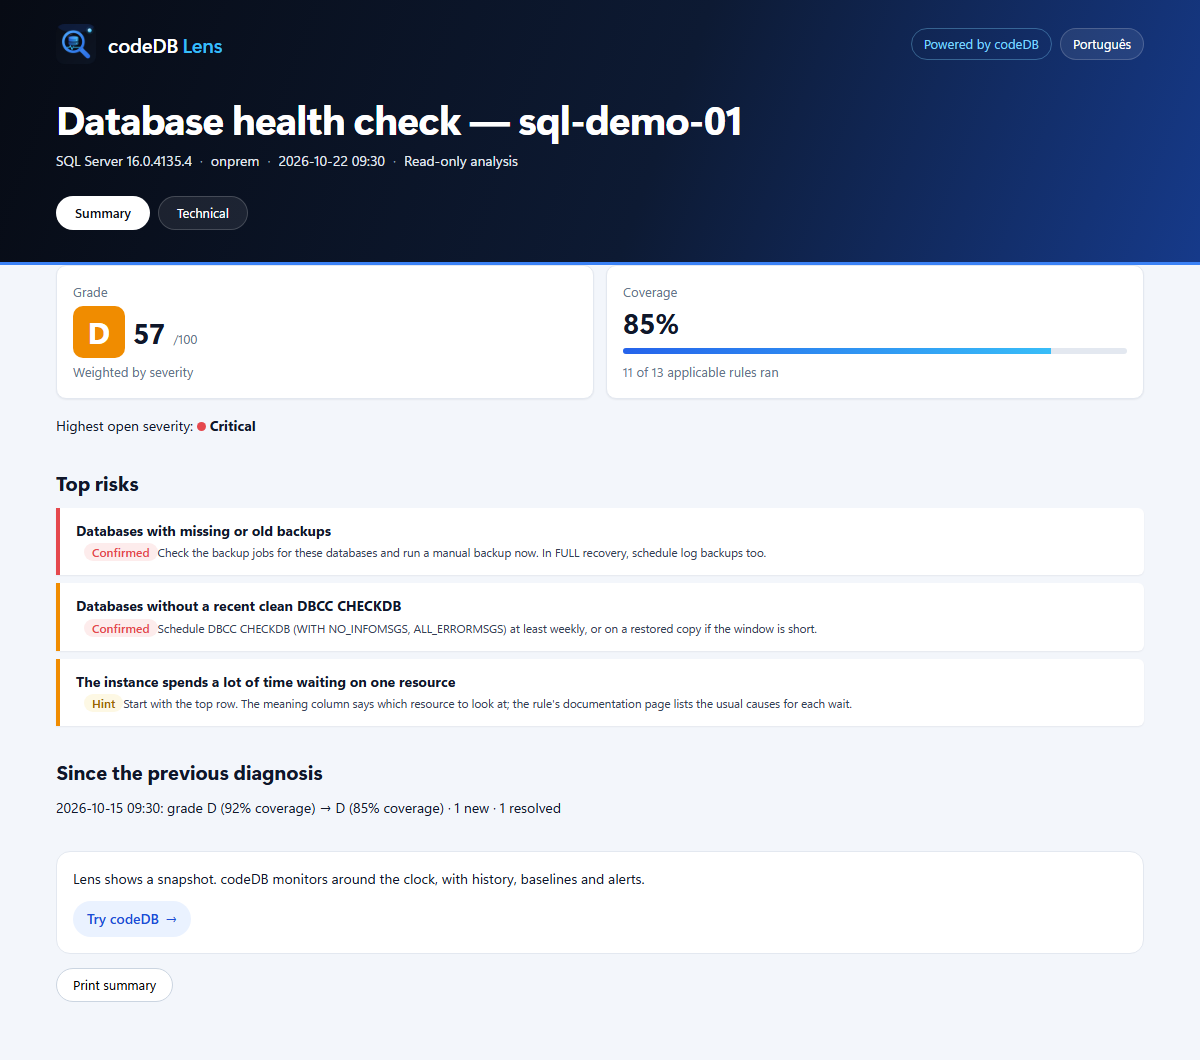
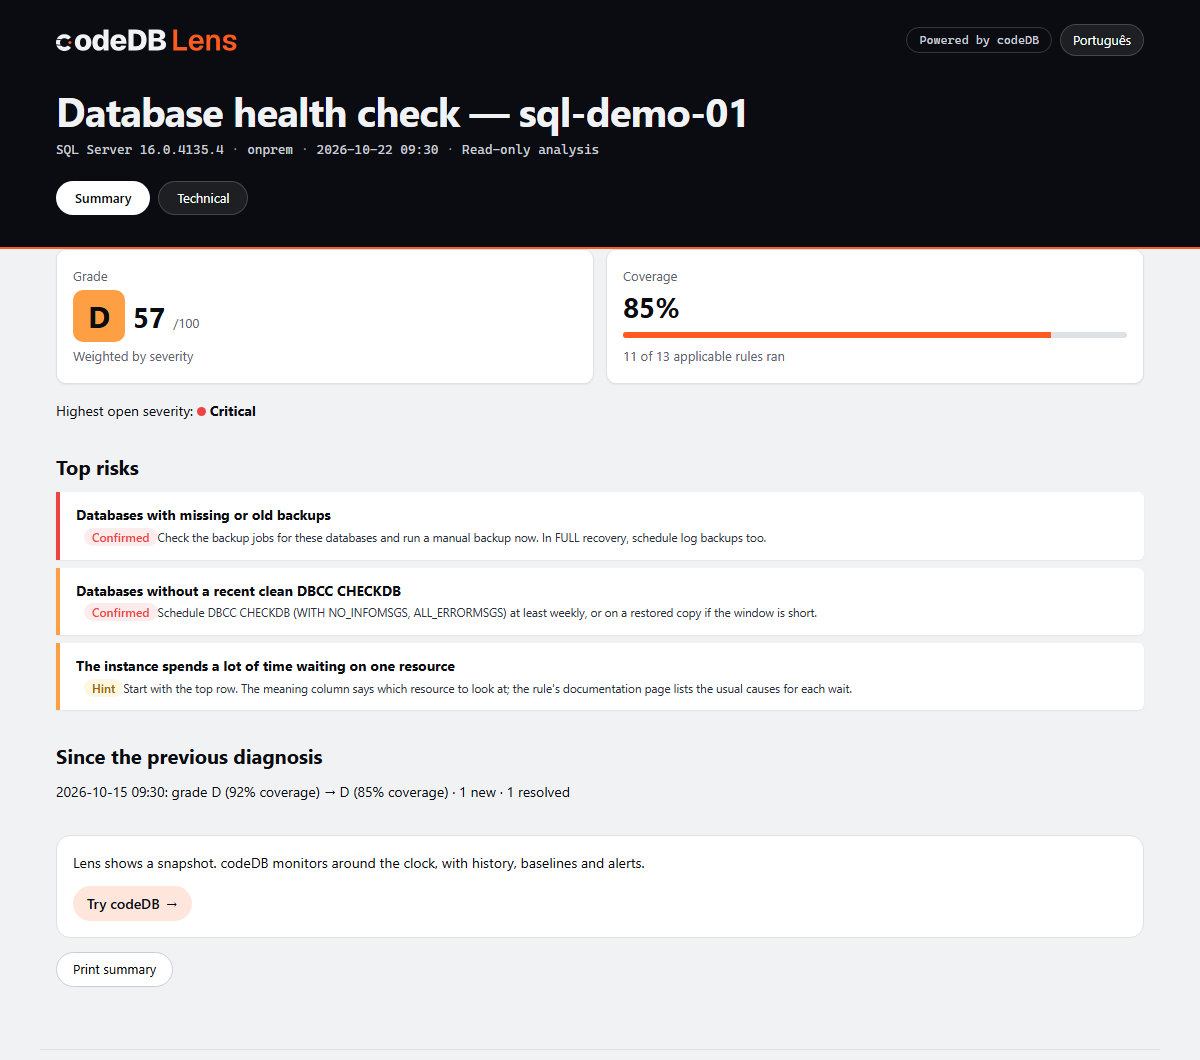
README demo GIF and report screenshot in the 2026 brand
make_demo.py rebuilds demo.gif (check in a terminal, the report, the
record timeline, end card with the horizontal logo) and
report-summary.png from a real run, so the next visual change is one
command. The GIF comes from a check and a 5-minute recording against
the test SQL Server container, host renamed to sql-prod-01.

diff --git a/assets/screenshots/make_demo.py b/assets/screenshots/make_demo.py
@@ -1,0 +1,256 @@
+#!/usr/bin/env python3
+"""Build the README demo GIF (check in a terminal, the report, the record timeline) and report-summary.png.
+
+Inputs come from a real run against a test server:
+  check.txt     stdout of `codedb-lens check ... --lang en`
+  check.html    the report that run saved
+  record.html   `codedb-lens report <recording folder> --lang en`
+Host names are swapped with --rename old=new (repeatable), so the GIF shows sql-prod-01, not the container.
+
+  python assets/screenshots/make_demo.py check.txt check.html record.html --rename 20fd962af3a0=sql-prod-01
+
+Needs Pillow and a Chromium (CHROME_PATH, Edge/Chrome or Playwright's chrome-headless-shell) for the page shots.
+Colours and fonts follow the codeDB brand kit (internal/report/tokens.css, Geist from the app's frontend/fonts).
+"""
+
+import argparse
+import glob
+import os
+import re
+import subprocess
+import sys
+import tempfile
+from pathlib import Path
+
+from PIL import Image, ImageDraw, ImageFont
+
+HERE = Path(__file__).resolve().parent
+ROOT = HERE.parent.parent
+FONTS = ROOT / "cmd" / "codedb-lens" / "frontend" / "fonts"
+sys.path.insert(0, str(ROOT / "assets" / "icon"))
+import generate  # noqa: E402  (browser lookup)
+
+W, H = 960, 600
+CAP_H, BAR_H = 56, 30
+SRC_W = 1280  # pages render at desktop width, then scale to W
+BREU, CARVAO, GRAFITE, ARDOSIA = (10, 12, 17), (18, 21, 28), (28, 33, 43), (42, 48, 60)
+NEVOA, NUVEM, PAPEL, SINAL = (139, 147, 161), (201, 206, 214), (241, 242, 244), (255, 90, 31)
+SEV = {"critical": (239, 68, 68), "high": (255, 159, 67), "medium": (242, 201, 76), "low": NEVOA}
+GRADE = {"A": (34, 194, 122), "B": (139, 209, 74), "C": (242, 201, 76), "D": (255, 159, 67), "F": (239, 68, 68)}
+COMMAND = "codedb-lens check --engine mssql --server sql-prod-01 --user codedb_lens"
+REPORT_DIR = r"C:\Users\dba\Documents\codeDB Lens\reports\sql-prod-01"
+
+CAPTIONS = {
+    "check": (None, "One command, a read-only login, nothing installed on the server"),
+    "summary": (None, "A–F grade with a coverage seal: no data never shows up as OK"),
+    "tech": (None, "Every finding: evidence, what it means, next action, how to verify"),
+    "record": ("NEW", "record: an hour or a day of samples, turned into episodes and charts"),
+}
+
+
+def font(name: str, size: int) -> ImageFont.FreeTypeFont:
+    return ImageFont.truetype(str(FONTS / name), size)
+
+
+MONO, SANS, SANS_B = font("GeistMono-400.ttf", 15), font("Geist-400.ttf", 19), font("Geist-600.ttf", 13)
+
+
+def chromium() -> str:
+    # Playwright's headless shell first: a desktop Edge/Chrome already running may swallow --screenshot.
+    shells = glob.glob(os.path.expanduser("~/AppData/Local/ms-playwright/chromium_headless_shell-*/*/chrome-headless-shell*"))
+    shells += glob.glob(os.path.expanduser("~/.cache/ms-playwright/chromium_headless_shell-*/*/chrome-headless-shell"))
+    if os.environ.get("CHROME_PATH") or not shells:
+        return generate.browser()
+    return sorted(shells)[-1]
+
+
+def shot(html: str, tmp: Path, name: str, height: int = 5000, src_w: int = SRC_W, out_w: int = W) -> Image.Image:
+    """Full-height screenshot of an HTML string at src_w, cropped to the content and scaled to out_w."""
+    page, out = tmp / f"{name}.html", tmp / f"{name}.png"
+    page.write_text(html, encoding="utf-8")
+    subprocess.run([chromium(), "--headless", "--disable-gpu", "--hide-scrollbars", "--force-device-scale-factor=1",
+                    f"--user-data-dir={tmp / 'profile'}", f"--window-size={src_w},{height}", f"--screenshot={out}",
+                    page.as_uri()], check=True, capture_output=True)
+    img = Image.open(out).convert("RGB")
+    bg = img.getpixel((2, img.height - 2))
+    bottom = img.height
+    while bottom > H and all(img.getpixel((x, bottom - 1)) == bg for x in range(0, img.width, 16)):
+        bottom -= 1
+    img = img.crop((0, 0, img.width, min(img.height, bottom + 24)))
+    return img.resize((out_w, round(img.height * out_w / src_w)), Image.LANCZOS)
+
+
+def caption(img: Image.Image, key: str) -> None:
+    badge, text = CAPTIONS[key]
+    d = ImageDraw.Draw(img)
+    d.rectangle((0, H - CAP_H, W, H), fill=BREU)
+    d.line((0, H - CAP_H, W, H - CAP_H), fill=GRAFITE, width=1)
+    x = 24
+    if badge:
+        bw = d.textlength(badge, font=SANS_B) + 16
+        d.rounded_rectangle((x, H - CAP_H + 16, x + bw, H - 16), radius=4, fill=SINAL)
+        d.text((x + 8, H - CAP_H / 2), badge, font=SANS_B, fill=BREU, anchor="lm")
+        x += bw + 12
+    d.text((x, H - CAP_H / 2), text, font=SANS, fill=PAPEL, anchor="lm")
+
+
+def terminal(lines: list[tuple[str, tuple]], cursor: bool) -> Image.Image:
+    img = Image.new("RGB", (W, H), BREU)
+    d = ImageDraw.Draw(img)
+    d.rounded_rectangle((16, 14, W - 16, H - CAP_H - 14), radius=10, fill=CARVAO, outline=GRAFITE)
+    for i in range(3):
+        d.ellipse((32 + i * 18, 28, 42 + i * 18, 38), fill=ARDOSIA)
+    d.text((W / 2, 33), "Terminal", font=SANS_B, fill=NEVOA, anchor="mm")
+    top, step = 56, 21
+    rows = (H - CAP_H - 30 - top) // step
+    for i, (text, colour) in enumerate(lines[-rows:]):
+        y = top + i * step
+        if text.startswith("PS> "):
+            d.text((32, y), "PS>", font=MONO, fill=SINAL)
+            d.text((32 + d.textlength("PS> ", font=MONO), y), text[4:], font=MONO, fill=PAPEL)
+        else:
+            d.text((32, y), text, font=MONO, fill=colour)
+    if cursor:
+        last = lines[-rows:][-1][0]
+        x = 32 + d.textlength(last, font=MONO) + 2
+        y = top + (min(len(lines), rows) - 1) * step
+        d.rectangle((x, y + 1, x + 8, y + 17), fill=PAPEL)
+    caption(img, "check")
+    return img
+
+
+def colour_of(line: str) -> tuple:
+    if m := re.search(r"Grade: ([A-F?])", line):
+        return GRADE.get(m.group(1), NUVEM)
+    if m := re.match(r"\s*\[(\w+)\s*\]", line):
+        return SEV.get(m.group(1), NUVEM)
+    return NUVEM
+
+
+def check_frames(check_txt: str) -> list[tuple[Image.Image, int]]:
+    out = []
+    for i in range(0, len(COMMAND) + 1, 3):
+        out.append((terminal([("PS> " + COMMAND[:i], PAPEL)], True), 40))
+    out.append((terminal([("PS> " + COMMAND, PAPEL)], True), 390))
+    shown = [("PS> " + COMMAND, PAPEL)]
+    for line in check_txt.splitlines():
+        line = line.rstrip()
+        if line.lstrip().startswith("Want this every minute"):
+            continue
+        shown.append((line, colour_of(line)))
+        slow = line.startswith(("Connecting", "Connected")) or "Grade:" in line or "[" in line
+        out.append((terminal(shown, False), 220 if slow else 70))
+    out[-1] = (out[-1][0], 1470)
+    return out
+
+
+def browser(page: Image.Image, url: str, y: int, key: str) -> Image.Image:
+    img = Image.new("RGB", (W, H), BREU)
+    view = page.crop((0, y, W, y + H - CAP_H - BAR_H))
+    img.paste(view, (0, BAR_H))
+    d = ImageDraw.Draw(img)
+    d.rectangle((0, 0, W, BAR_H), fill=CARVAO)
+    for i in range(3):
+        d.ellipse((12 + i * 15, 11, 20 + i * 15, 19), fill=ARDOSIA)
+    d.rounded_rectangle((70, 6, W - 200, BAR_H - 6), radius=9, fill=GRAFITE)
+    d.text((82, BAR_H / 2), url, font=font("Geist-400.ttf", 11), fill=NUVEM, anchor="lm")
+    caption(img, key)
+    return img
+
+
+def scroll(page: Image.Image, url: str, key: str, stops: list[int], hold: list[int]) -> list[tuple[Image.Image, int]]:
+    """Hold on each stop, gliding between them in 70 ms steps."""
+    view = H - CAP_H - BAR_H
+    stops = [min(s, max(0, page.height - view)) for s in stops]
+    out, prev = [], stops[0]
+    for stop, ms in zip(stops, hold):
+        n = max(1, abs(stop - prev) // 60)
+        for k in range(1, n):
+            out.append((browser(page, url, prev + (stop - prev) * k // n, key), 70))
+        out.append((browser(page, url, stop, key), ms))
+        prev = stop
+    return out
+
+
+def anchor(html: str, tmp: Path, name: str, selector: str) -> int:
+    """Page y (at W) of the first element matching selector, from a JS-stamped title."""
+    probe = html.replace("</body>", "<script>addEventListener('load',()=>{const e=document.querySelector("
+                         f"{selector!r});document.body.innerHTML='<pre id=y>'+(e?e.getBoundingClientRect().top+scrollY:0)"
+                         "+'</pre>'})</script></body>")
+    page = tmp / f"{name}-probe.html"
+    page.write_text(probe, encoding="utf-8")
+    dom = subprocess.run([chromium(), "--headless", "--disable-gpu", f"--user-data-dir={tmp / 'profile'}",
+                          f"--window-size={SRC_W},1000", "--dump-dom", page.as_uri()],
+                         check=True, capture_output=True, text=True, encoding="utf-8").stdout
+    m = re.search(r'<pre id="y">([\d.]+)</pre>', dom)
+    return round(float(m.group(1)) * W / SRC_W) if m else 0
+
+
+def end_card(tmp: Path) -> Image.Image:
+    logo = (ROOT / "assets" / "icon" / "logo-dark.svg").read_text(encoding="utf-8")
+    fonts = FONTS.as_uri()
+    pills = "".join(f"<span>{p}</span>" for p in ["Single binary", "Windows · Linux · Docker", "No telemetry", "Open source"])
+    html = f"""<!doctype html><meta charset="utf-8"><style>
+@font-face {{ font-family: Geist; src: url({fonts}/Geist-400.ttf); }}
+@font-face {{ font-family: "Geist Mono"; src: url({fonts}/GeistMono-400.ttf); }}
+html, body {{ margin: 0; height: 100%; background: #0a0c11; color: #f1f2f4; font-family: Geist, system-ui; }}
+body {{ display: grid; place-content: center; justify-items: center; gap: 36px; height: {round(H * SRC_W / W)}px; }}
+svg {{ width: 720px; height: auto; }}
+p {{ margin: 0; font-size: 30px; color: #c9ced6; }}
+div {{ display: flex; gap: 14px; }}
+span {{ border: 1px solid #2a303c; border-radius: 999px; padding: 8px 20px; font-size: 22px; color: #c9ced6; }}
+code {{ font: 26px "Geist Mono", ui-monospace; color: #8b93a1; }}
+</style><body>{logo}<p>Free, read-only health check for SQL Server and PostgreSQL</p><div>{pills}</div>
+<code>github.com/codedb-io/codedb-lens</code></body>"""
+    return shot(html, tmp, "end", round(H * SRC_W / W)).crop((0, 0, W, H))
+
+
+def save_gif(frames: list[tuple[Image.Image, int]], path: Path) -> None:
+    pal = [f.quantize(colors=255, method=Image.Quantize.FASTOCTREE) for f, _ in frames]
+    pal[0].save(path, save_all=True, append_images=pal[1:], duration=[ms for _, ms in frames], loop=0,
+                optimize=True, disposal=1)
+
+
+def main() -> None:
+    ap = argparse.ArgumentParser()
+    ap.add_argument("check_txt"), ap.add_argument("check_html"), ap.add_argument("record_html")
+    ap.add_argument("--rename", action="append", default=[], help="old=new, applied to the text and the pages")
+    ap.add_argument("--demo-report", default=str(ROOT / "docs" / "en" / "demo" / "report.html"),
+                    help="report used for report-summary.png")
+    a = ap.parse_args()
+
+    def clean(s: str) -> str:
+        for pair in a.rename:
+            old, new = pair.split("=", 1)
+            s = s.replace(old, new)
+        return s
+
+    check_txt = clean(Path(a.check_txt).read_text(encoding="utf-8"))
+    check_txt = re.sub(r"Report saved: .*[\\/]", lambda _: "Report saved: " + REPORT_DIR + "\\", check_txt)
+    report = clean(Path(a.check_html).read_text(encoding="utf-8"))
+    record = clean(Path(a.record_html).read_text(encoding="utf-8"))
+    tech = report.replace("</body>", "<script>addEventListener('load',()=>showTab('tech'))</script></body>")
+    base = "file:///" + REPORT_DIR.replace("\\", "/") + "/"
+    report_url = base + Path(a.check_html).name
+    record_url = base + "recordings/codedb-lens-record-sql-prod-01/" + Path(a.record_html).name
+
+    with tempfile.TemporaryDirectory() as t:
+        tmp = Path(t)
+        summary_page, tech_page, record_page = shot(report, tmp, "summary"), shot(tech, tmp, "tech"), shot(record, tmp, "record")
+        first_story = anchor(tech, tmp, "tech", ".story") - 90
+        charts = anchor(record, tmp, "record", ".charts") - 120
+        frames = check_frames(check_txt)
+        frames += scroll(summary_page, report_url, "summary", [0, 240], [1170, 1970])
+        frames += scroll(tech_page, report_url, "tech", [0, first_story, first_story + 260], [1300, 1600, 1970])
+        frames += scroll(record_page, record_url, "record", [0, charts], [1470, 1970])
+        frames.append((end_card(tmp), 2300))
+        save_gif(frames, HERE / "demo.gif")
+
+        # report-summary.png: the summary tab of the docs demo report at 1200 px wide, cut after the codeDB invite.
+        demo = shot(Path(a.demo_report).read_text(encoding="utf-8"), tmp, "demo", src_w=1200, out_w=1200)
+        demo.crop((0, 0, 1200, min(demo.height, 1060))).save(HERE / "report-summary.png", optimize=True)
+    print(f"demo.gif ({len(frames)} frames), report-summary.png")
+
+
+if __name__ == "__main__":
+    main()
